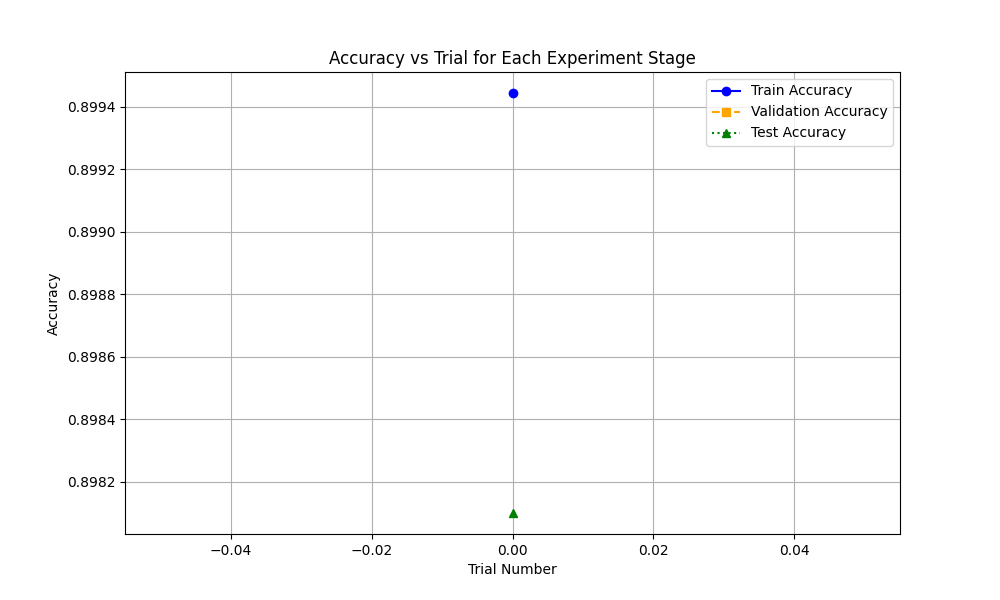
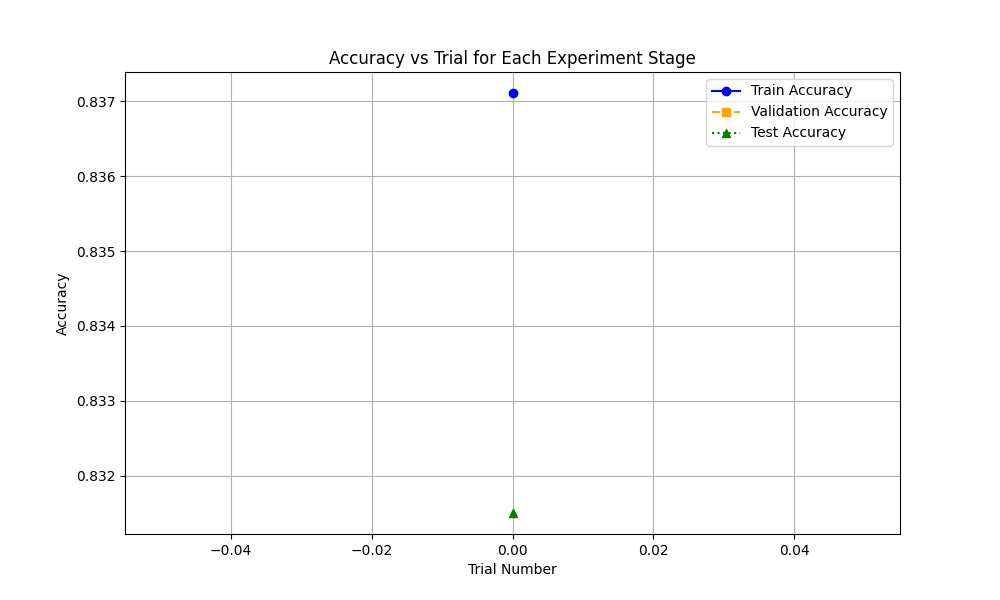
commit

diff --git a/spiking_arch/n_mnist_fp.py b/spiking_arch/n_mnist_fp.py
@@ -67,6 +67,7 @@ parser.add_argument("--pron", action="store_true")
 parser.add_argument("--mspron", action="store_true")
 
 parser.add_argument("--sron", action="store_true")
+parser.add_argument("--mixron", action="store_true")
 parser.add_argument("--liquidron", action="store_true")
 
 parser.add_argument("--inp_scaling", type=float, default=1.0, help="ESN input scaling")
@@ -93,7 +94,7 @@ parser.add_argument(
     help="Scaler in case of ring/band/toeplitz reservoir",
 )
 
-parser.add_argument("--threshold", type=float, default=0.008, help="threshold")
+parser.add_argument("--threshold", type=float, default=1, help="threshold")
 # parser.add_argument("--resistance", type=float, default=7.0, help="resistance")
 # parser.add_argument("--capacitance", type=float, default=0.005, help="capacitance")
 parser.add_argument("--rc", type=float, default=5.0, help="tau")
@@ -307,7 +308,7 @@ for i in range(args.trials):
         print('shapes of tensors: \noutput: ', output.shape, '\nspikes: ', spk.shape, '\nmembrane potential: ', u.shape, '\nvelocity: ', velocity.shape, '\nx: ', images.shape)
         plot_dynamics(u, spk, images, args.resultroot, output=output, velocity=velocity)
     
-    activations = torch.cat(activations, dim=0).numpy() # activations = torch.cat(activations, dim=0).numpy()  
+    activations = torch.cat(activations, dim=0).detach().numpy() # activations = torch.cat(activations, dim=0).numpy()  
     ys = torch.cat(ys, dim=0).squeeze().numpy()
     # print("Activations shape:", activations.shape)
     # print("Labels shape:", ys.shape)  

diff --git a/spiking_arch/snn_utils.py b/spiking_arch/snn_utils.py
@@ -90,7 +90,7 @@ def plot_dynamics(
     # Plot input (x)
     plt.subplot(num_plots, 1, i)
     plt.title('Input (x)') #FOR N-MNIST: np.mean(x[0, :, :]) #also check for other datasets
-    plt.plot(time_steps, np.mean(x[0, :, :], axis=1), ##doesn't work, try something else from numpy page
+    plt.plot(time_steps, np.mean(x[0, :, :], axis=1),
              #x[0, :, 0], 
              color="purple", linestyle='-', linewidth=1)
     plt.xlabel('Time Step')
